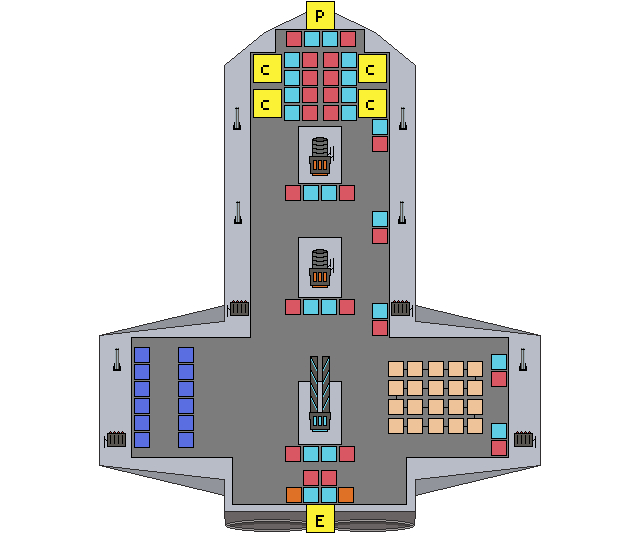
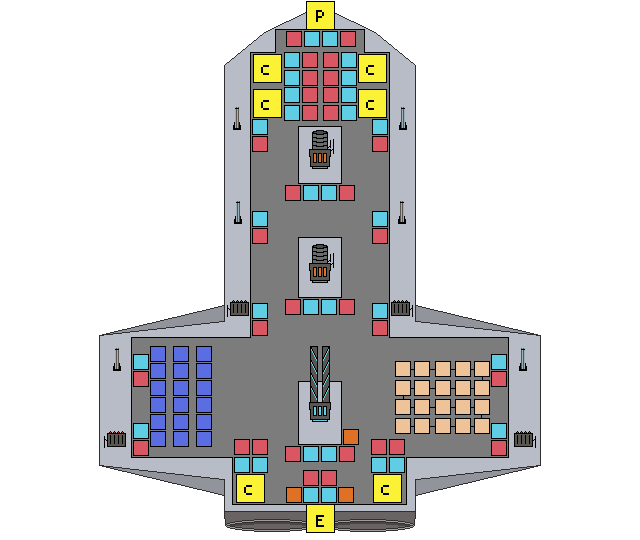
feat: Add new ship types and data management
- Introduced ShipType enum to categorize ships as Cruiser and Fighter.
- Created ShipData class to represent ship entries loaded from JSON.
- Implemented ShipDatabase for managing ship data.
- Updated DataManager to load ship data from JSON.
- Enhanced PlaySpace to dynamically load ship scenes based on selected ship types.
- Added CruiserShipSmall scene and associated resources for the new ship type.
- Updated ShipSmall component to apply enemy sprite textures.
- Added new assets for Cruiser exhaust and UI elements.
- Modified PlaySpace scene to reference new ship scenes and configurations.

diff --git a/Scripts/Singletons/PlaySpace.cs b/Scripts/Singletons/PlaySpace.cs
@@ -16,6 +16,20 @@ public partial class PlaySpace : Node
 	public void EnterCombat() => IsInCombat = true;
 	public void ExitCombat()  => IsInCombat = false;
 
+	// Ship configuration -------------------------------------------------------
+
+	/// <summary>Which ship class the player uses. Drives scene loading at startup.</summary>
+	[Export] public ShipType PlayerShipType { get; set; } = ShipType.Fighter;
+
+	/// <summary>Which ship class the enemy uses. Drives scene loading at startup.</summary>
+	[Export] public ShipType EnemyShipType  { get; set; } = ShipType.Fighter;
+
+	/// <summary>Resolved data record for the player's ship.</summary>
+	public ShipData PlayerShipDefinition { get; private set; }
+
+	/// <summary>Resolved data record for the enemy's ship.</summary>
+	public ShipData EnemyShipDefinition  { get; private set; }
+
 	// Camera panning -----------------------------------------------------------
 
 	private Camera2D _camera;
@@ -54,6 +68,8 @@ public partial class PlaySpace : Node
 
 	public override void _Ready()
 	{
+		LoadShipScenes();
+
 		_camera = GetNodeOrNull<Camera2D>("Camera2D");
 
 		Node2D playerShip = GetNodeOrNull<Node2D>("PlayerShip");
@@ -415,4 +431,79 @@ public partial class PlaySpace : Node
 	}
 
 	private void UpdateDeployLabels() { }
+
+	// Ship scene loading -------------------------------------------------------
+
+	/// <summary>
+	/// Resolves <see cref="ShipData"/> for both factions and replaces the static
+	/// scene instances with the scenes declared in that data.
+	/// </summary>
+	private void LoadShipScenes()
+	{
+		DataManager.Ships.ByDataName.TryGetValue(PlayerShipType.ToString(), out ShipData playerDef);
+		DataManager.Ships.ByDataName.TryGetValue(EnemyShipType.ToString(),  out ShipData enemyDef);
+		PlayerShipDefinition = playerDef;
+		EnemyShipDefinition  = enemyDef;
+
+		if (PlayerShipDefinition == null)
+			GD.PrintErr($"[PlaySpace] No ShipData found for PlayerShipType '{PlayerShipType}'");
+
+		if (EnemyShipDefinition == null)
+			GD.PrintErr($"[PlaySpace] No ShipData found for EnemyShipType '{EnemyShipType}'");
+
+		if (PlayerShipDefinition != null)
+		{
+			SwapShipScene("PlayerShipSmall",       PlayerShipDefinition.ShipSmallScene, ShipFaction.Player);
+			SwapShipScene("CanvasLayer/PlayerShip", PlayerShipDefinition.ShipScene,      ShipFaction.Player);
+		}
+
+		if (EnemyShipDefinition != null)
+		{
+			SwapShipScene("EnemyShipSmall",       EnemyShipDefinition.ShipSmallScene, ShipFaction.Enemy);
+			SwapShipScene("CanvasLayer/EnemyShip", EnemyShipDefinition.ShipScene,      ShipFaction.Enemy);
+		}
+	}
+
+	/// <summary>
+	/// Replaces the node at <paramref name="nodePath"/> with a fresh instance of
+	/// <paramref name="scenePath"/>, preserving name, position, visibility, and
+	/// child-order index. Sets <see cref="ShipFaction"/> if the new instance is a
+	/// <see cref="Ship"/> or <see cref="ShipSmall"/>.
+	/// </summary>
+	private void SwapShipScene(string nodePath, string scenePath, ShipFaction faction)
+	{
+		Node existing = GetNodeOrNull<Node>(nodePath);
+		if (existing == null)
+		{
+			GD.PrintErr($"[PlaySpace] SwapShipScene: node not found at '{nodePath}'");
+			return;
+		}
+
+		Node parent     = existing.GetParent();
+		int  index      = existing.GetIndex();
+		Vector2 pos     = existing is Node2D n ? n.Position : Vector2.Zero;
+		bool vis        = existing is not CanvasItem c || c.Visible;
+		string nodeName = existing.Name;
+
+		parent.RemoveChild(existing);
+		existing.QueueFree();
+
+		PackedScene packed = ResourceLoader.Load<PackedScene>(scenePath);
+		if (packed == null)
+		{
+			GD.PrintErr($"[PlaySpace] SwapShipScene: failed to load scene '{scenePath}'");
+			return;
+		}
+
+		Node instance = packed.Instantiate();
+		instance.Name = nodeName;
+
+		if (instance is Node2D node2d)     node2d.Position    = pos;
+		if (instance is CanvasItem canvas) canvas.Visible     = vis;
+		if (instance is Ship ship)         ship.Faction       = faction;
+		else if (instance is ShipSmall sm) sm.Faction         = faction;
+
+		parent.AddChild(instance);
+		parent.MoveChild(instance, index);
+	}
 }

diff --git a/Scripts/Singletons/DataManager.cs b/Scripts/Singletons/DataManager.cs
@@ -18,6 +18,7 @@ public partial class DataManager : Node
 	public static CrewDatabase      Crew       { get; private set; }
 	public static CargoDatabase     Cargo      { get; private set; }
 	public static ComponentDatabase Components { get; private set; }
+	public static ShipDatabase      Ships      { get; private set; }
 
 	private static readonly JsonSerializerOptions JsonOptions = new()
 	{
@@ -31,8 +32,9 @@ public partial class DataManager : Node
 		Crew       = new CrewDatabase(Load<CrewData>      ("res://Assets/Data/Ship's Waker Data - Crew.json"));
 		Cargo      = new CargoDatabase(Load<CargoData>     ("res://Assets/Data/Ship's Waker Data - Cargo.json"));
 		Components = new ComponentDatabase(Load<ComponentData>("res://Assets/Data/Ship's Waker Data - Components.json"));
+		Ships      = new ShipDatabase(Load<ShipData>       ("res://Assets/Data/Ship's Waker Data - Ships.json"));
 
-		GD.Print($"[DataManager] Loaded {Crew.All.Count} crew, {Cargo.All.Count} cargo, {Components.All.Count} components.");
+		GD.Print($"[DataManager] Loaded {Crew.All.Count} crew, {Cargo.All.Count} cargo, {Components.All.Count} components, {Ships.All.Count} ships.");
 	}
 
 	private static List<T> Load<T>(string resPath)

diff --git a/Scripts/Data/ShipData.cs b/Scripts/Data/ShipData.cs
@@ -1,0 +1,23 @@
+using System.Text.Json.Serialization;
+
+/// <summary>
+/// Represents a single ship entry deserialized from
+/// Assets/Data/Ship's Waker Data - Ships.json.
+/// </summary>
+public class ShipData
+{
+	[JsonPropertyName("DataName")]
+	public string DataName { get; set; }
+
+	[JsonPropertyName("Name")]
+	public string Name { get; set; }
+
+	[JsonPropertyName("CurrentlyWorks")]
+	public bool CurrentlyWorks { get; set; }
+
+	[JsonPropertyName("ShipScene")]
+	public string ShipScene { get; set; }
+
+	[JsonPropertyName("ShipSmallScene")]
+	public string ShipSmallScene { get; set; }
+}

diff --git a/Scripts/Data/Databases.cs b/Scripts/Data/Databases.cs
@@ -59,3 +59,23 @@ public class ComponentDatabase
 		ByDataName = dict;
 	}
 }
+
+/// <summary>
+/// Read-only database of all ship entries loaded from JSON.
+/// Access via DataManager.Ships.
+/// </summary>
+public class ShipDatabase
+{
+	public IReadOnlyList<ShipData> All { get; }
+	public IReadOnlyDictionary<string, ShipData> ByDataName { get; }
+
+	public ShipDatabase(List<ShipData> entries)
+	{
+		All = entries.AsReadOnly();
+
+		var dict = new Dictionary<string, ShipData>(entries.Count);
+		foreach (ShipData entry in entries)
+			dict[entry.DataName] = entry;
+		ByDataName = dict;
+	}
+}

diff --git a/Scripts/Components/ShipSmall.cs b/Scripts/Components/ShipSmall.cs
@@ -29,6 +29,21 @@ public partial class ShipSmall : Node2D
 	{
 		ApplyFactionToPdcs();
 		SpawnExhaustTrails();
+		ApplyEnemySprite();
+	}
+
+	private void ApplyEnemySprite()
+	{
+		if (_faction != ShipFaction.Enemy) return;
+
+		var sprite = GetNodeOrNull<Sprite2D>("Pivot/Sprites/Sprite2D2");
+		if (sprite == null)
+		{
+			GD.PushWarning("ShipSmall: Could not find Pivot/Sprites/Sprite2D2 to apply enemy texture.");
+			return;
+		}
+
+		sprite.Texture = GD.Load<Texture2D>("res://Assets/Backgrounds/SpaceShipGame_UI_Ship.png");
 	}
 
 	private void ApplyFactionToPdcs()

diff --git a/Scripts/Data/ShipType.cs b/Scripts/Data/ShipType.cs
@@ -1,0 +1,8 @@
+/// <summary>
+/// Identifies the type/class of a ship.
+/// </summary>
+public enum ShipType
+{
+	Cruiser,
+	Fighter,
+}
